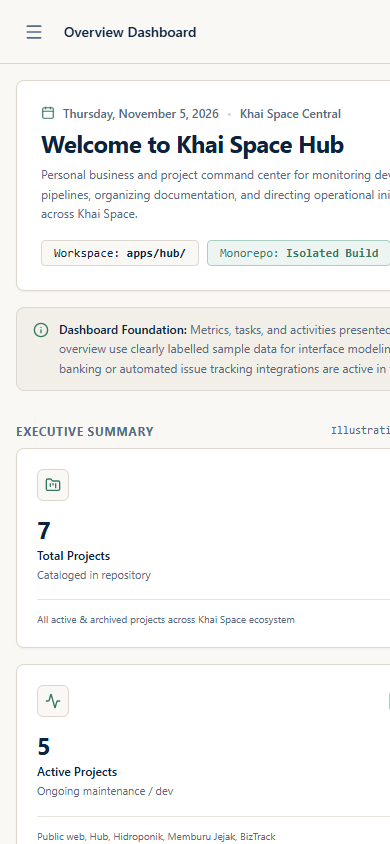
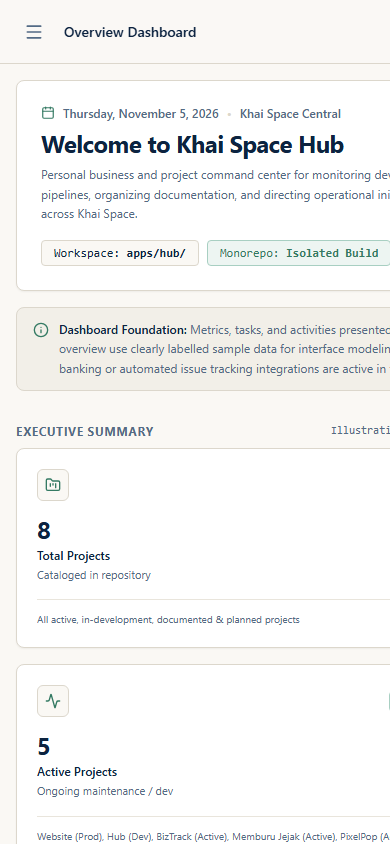
fix(hub): align project count with catalog and order recent activity chronologically

Changed region(s): [[0.0923, 0.9858, 1.0, 1.0], [0.1846, 0.7085, 0.7692, 0.7393], [0.0923, 0.6161, 0.1231, 0.6469]]

diff --git a/apps/hub/src/data/sample-dashboard-data.ts b/apps/hub/src/data/sample-dashboard-data.ts
@@ -4,10 +4,10 @@ export const SAMPLE_SUMMARY_METRICS: SummaryMetric[] = [
   {
     id: "total-projects",
     label: "Total Projects",
-    value: "7",
+    value: "8",
     sublabel: "Cataloged in repository",
     badgeText: "Cataloged",
-    note: "All active & archived projects across Khai Space ecosystem",
+    note: "All active, in-development, documented & planned projects",
   },
   {
     id: "active-projects",
@@ -15,7 +15,7 @@ export const SAMPLE_SUMMARY_METRICS: SummaryMetric[] = [
     value: "5",
     sublabel: "Ongoing maintenance / dev",
     badgeText: "In Progress",
-    note: "Public web, Hub, Hidroponik, Memburu Jejak, BizTrack",
+    note: "Website (Prod), Hub (Dev), BizTrack (Active), Memburu Jejak (Active), PixelPop (Active)",
   },
   {
     id: "pending-tasks",
@@ -44,6 +44,15 @@ export const CATALOGED_PROJECTS: HubProject[] = [
     location: "Repository Root (src/)",
     description: "Public portfolio and services website built with Next.js 16 App Router and Tailwind CSS.",
     tags: ["Next.js 16", "Tailwind CSS", "Cloudflare Pages"],
+  },
+  {
+    id: "hub",
+    title: "Khai Space Hub",
+    category: "Internal Platform",
+    status: "In Development",
+    location: "apps/hub",
+    description: "Personal business and project command center providing centralized workspace navigation and telemetry.",
+    tags: ["Next.js 16", "Tailwind CSS", "Command Center"],
   },
   {
     id: "biztrack",
@@ -103,18 +112,18 @@ export const CATALOGED_PROJECTS: HubProject[] = [
 
 export const SAMPLE_ACTIVITY_FEED: ActivityEntry[] = [
   {
-    id: "act-1",
-    action: "Harvest guide and Pak Choy Day 36 documentation finalized",
-    project: "Hidroponics",
-    date: "November 4, 2026",
-    category: "Documentation",
-  },
-  {
     id: "act-2",
     action: "Hub Phase 1.1 light design and domain configuration approved",
     project: "Khai Space Hub",
     date: "November 5, 2026",
     category: "Scaffold",
+  },
+  {
+    id: "act-1",
+    action: "Harvest guide and Pak Choy Day 36 documentation finalized",
+    project: "Hidroponics",
+    date: "November 4, 2026",
+    category: "Documentation",
   },
   {
     id: "act-3",
